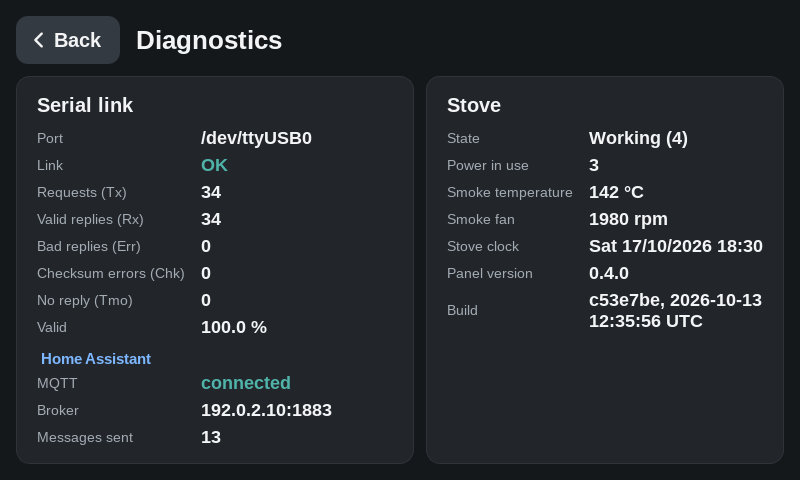
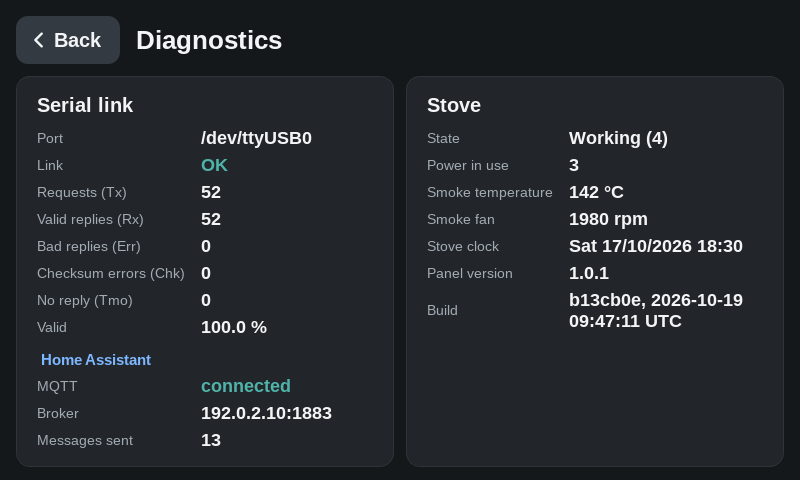
Pellet Controller 1.0.1
- Boot splash for the panel, 800x480 (images/)
- Protocol documentation: -/+ steps start from the write still pending
- Diagnostic page screenshot of this version

diff --git a/docs/protocol.html b/docs/protocol.html
@@ -259,7 +259,9 @@ through <code>writeClock</code> (six writes, not polled).</p>
 old time for one or two minutes: for two minutes after a clock set the panel shows the time written, running
 (<code>CLOCK_SET_HOLD_MS</code>).</p>
 <p>Setpoint and power -/+ do nothing until the value has been read from the stove (and again after the serial
-port was lost).</p>
+port was lost). Each step starts from the last write of that parameter still queued or not confirmed yet,
+otherwise from the value read (<code>stepBase</code>): taps faster than a write and its reply (about 250 ms) all
+count, and the limits apply to the queued value too.</p>
 
 <h3 id="other">Other known locations</h3>
 <p>Not used by the panel yet, except RAM <code>19</code> (shown on the diagnostic page).</p>

diff --git a/README.md b/README.md
@@ -62,6 +62,7 @@ stove simulator (`tools/stovesim`).
 |---|---|
 | `*.cpp`, `*.h` | The application sources (pages built in code, no `.ui` forms) |
 | `qss/`, `icons/` | Style sheet and stroke icons, tinted at run time (`resources.qrc`) |
+| `images/` | Boot splash of the panel, 800x480 (`splash.svg`, `splash.png` rendered with headless Chromium) |
 | `app/app.pro` | Application project, sources taken from the root |
 | `CustomWidgets/` | Custom widgets, static library |
 | `ThirdParty/` | External modules as git submodules: Qt Serial Port and Qt MQTT 5.13.2, built static |

diff --git a/docs/PROTOCOL.md b/docs/PROTOCOL.md
@@ -213,7 +213,11 @@ minutes after a clock set the panel shows the time written, running
 (`CLOCK_SET_HOLD_MS`).
 
 Setpoint and power -/+ do nothing until the value has been read from the
-stove (and again after the serial port was lost).
+stove (and again after the serial port was lost). Each step starts from
+the last write of that parameter still queued or not confirmed yet,
+otherwise from the value read (`stepBase`): taps faster than a write and
+its reply (about 250 ms) all count, and the limits apply to the queued
+value too.
 
 ### Other known locations
 
